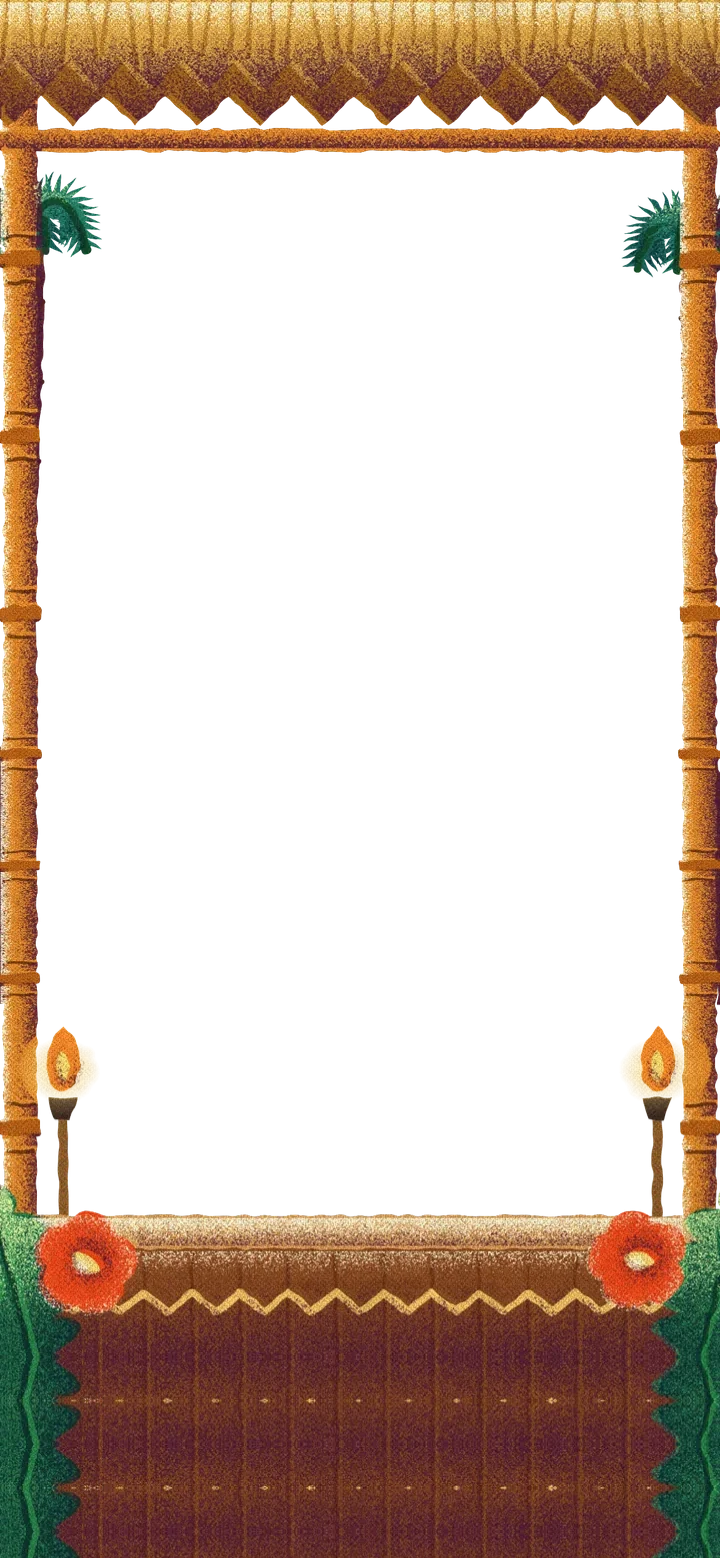
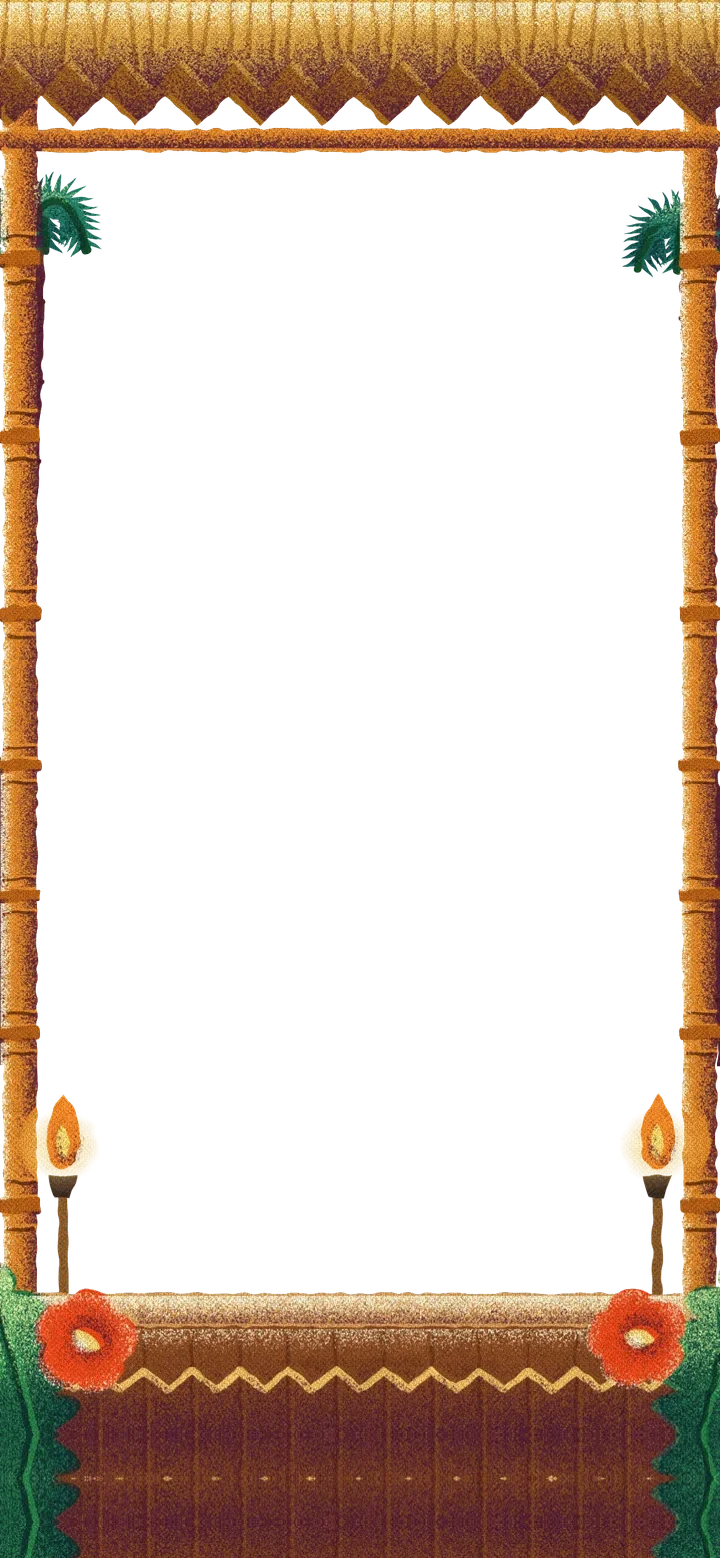
Tiki: borde del marco de abajo más cerca de la barra de botones
Claude-Session: https://claude.ai/code/session_01EMXnAxq4LMvieSwDYu5mi1

diff --git a/index.html b/index.html
@@ -22,7 +22,7 @@
 }
 /* un color liso por bar; el marco ilustrado va encima como PNG */
 [data-bar="mi"]{--bgc:#E6D9BC;--fg:#2E1622;--fgrgb:46,22,34;--fade:77.5dvh;--top:10.4dvh;--dtop:12dvh}
-[data-bar="tiki"]{--bgc:#F3D9A4;--fg:#2E1622;--fgrgb:46,22,34;--fade:76dvh;--top:10.4dvh;--dtop:12dvh}
+[data-bar="tiki"]{--bgc:#F3D9A4;--fg:#2E1622;--fgrgb:46,22,34;--fade:80dvh;--top:10.4dvh;--dtop:12dvh}
 [data-bar="clasico"]{--bgc:#4E2230;--fg:#FCF2DE;--fgrgb:252,242,222;--fade:76dvh;--top:10.4dvh;--dtop:12dvh}
 *{box-sizing:border-box;-webkit-tap-highlight-color:transparent}
 html,body{margin:0;height:100%;background:#120b0e;font-family:var(--serif);overflow:hidden;overscroll-behavior:none}

diff --git a/sw.js b/sw.js
@@ -1,4 +1,4 @@
-const C='tragos-v23';
+const C='tragos-v24';
 const FILES=['./','./index.html','./manifest.webmanifest','./icon-192.png','./icon-512.png','./icon-180.png','./assets/Ruina.ttf',
  ...['mi','tiki','clasico'].flatMap(b=>[0,1,2,3].map(f=>`./assets/marco/${b}_${f}.webp`)),
  ...['old-fashioned','mai-tai','pina-colada','painkiller','jungle-bird','daiquiri','negroni','margarita','martini','manhattan','mojito','aperol-spritz','whiskey-sour','espresso-martini','fernet-coca','cynar-pomelo','gancia-sprite'].map(d=>`./assets/drinks/${d}.webp`)];
